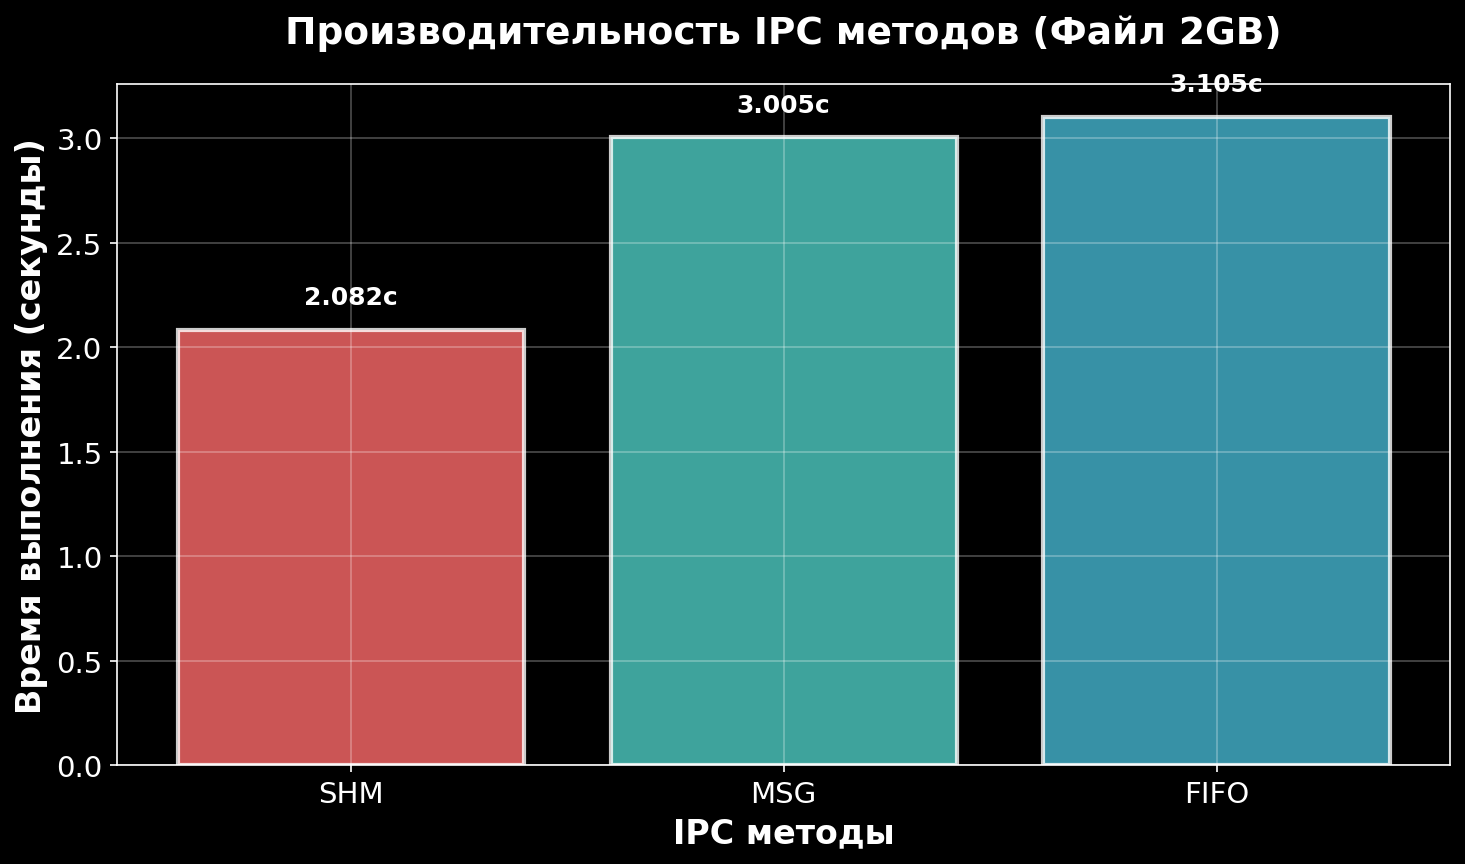
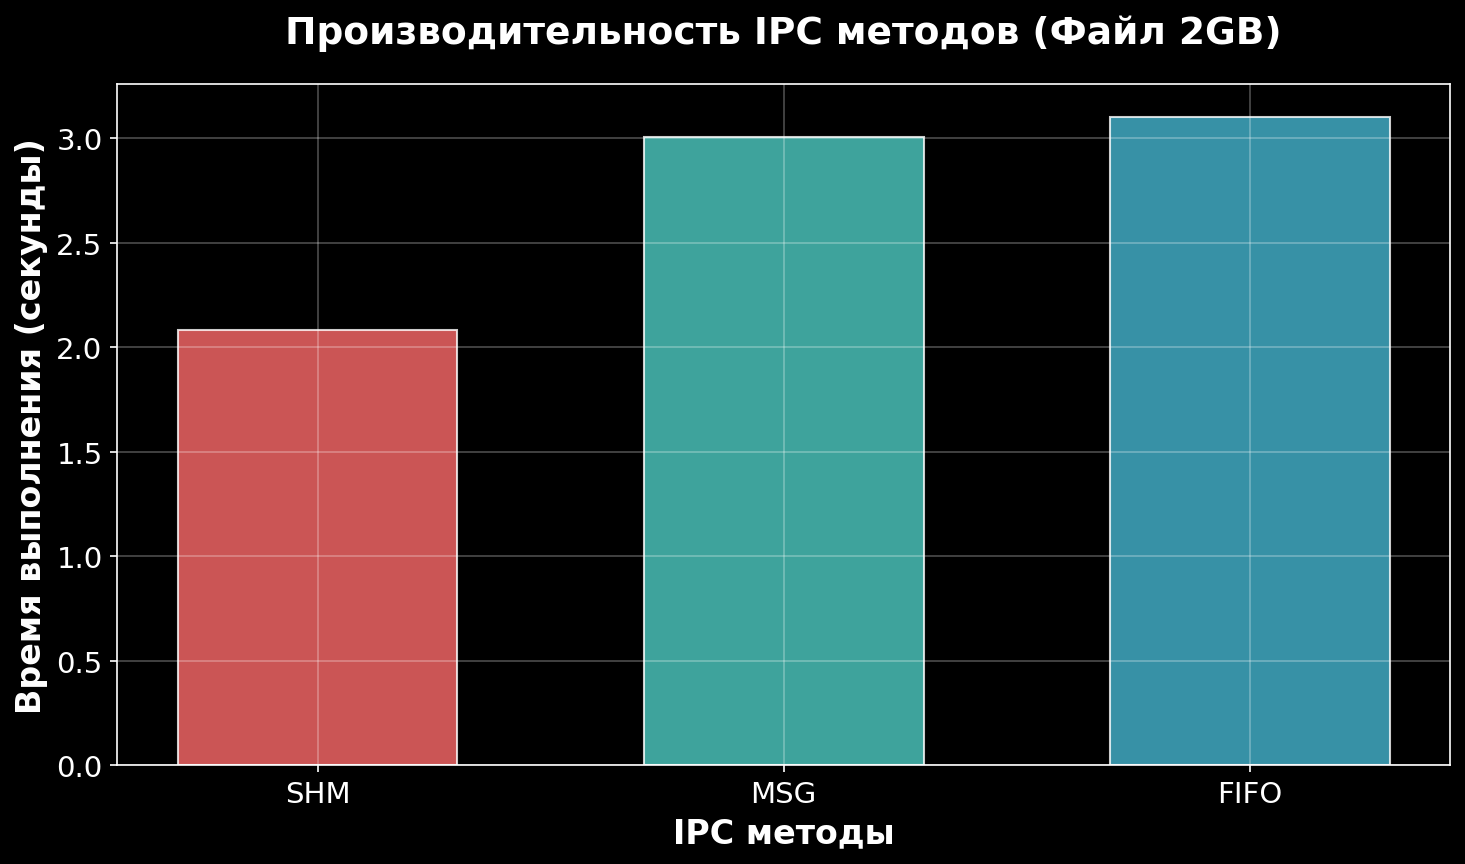
[TASK-3] corrected histograms

diff --git a/sem_3/homework/graphs/generate.py b/sem_3/homework/graphs/generate.py
@@ -17,30 +17,14 @@ colors = ['#FF6B6B', '#4ECDC4', '#45B7D1']
 for file_size, times in data.items():
     fig, ax = plt.subplots(figsize=(10, 6))
 
-    bars = ax.bar(methods, times, color=colors,
-                  edgecolor='white', linewidth=2, alpha=0.8)
+    bars = ax.bar(methods, times, color=colors, width=0.6,
+                  edgecolor='white', linewidth=1, alpha=0.8)
 
     ax.set_xlabel('IPC методы', fontsize=16, fontweight='bold')
     ax.set_ylabel('Время выполнения (секунды)', fontsize=16, fontweight='bold')
     ax.set_title(f'Производительность IPC методов (Файл {file_size})',
                  fontsize=18, fontweight='bold', pad=20)
     ax.grid(True, alpha=0.3)
-
-    if file_size == '8KB':
-        offset = 0.00005
-        format_str = '{:.6f}с'
-    elif file_size == '4MB':
-        offset = 0.001
-        format_str = '{:.6f}с'
-    else:  # 2GB
-        offset = 0.1
-        format_str = '{:.3f}с'
-
-    for bar, time_val in zip(bars, times):
-        height = bar.get_height()
-        ax.text(bar.get_x() + bar.get_width()/2., height + offset,
-                format_str.format(time_val), ha='center', va='bottom',
-                fontweight='bold', fontsize=12)
 
     plt.tight_layout()
     plt.savefig(f'ipc_{file_size}.png', dpi=150, bbox_inches='tight')
